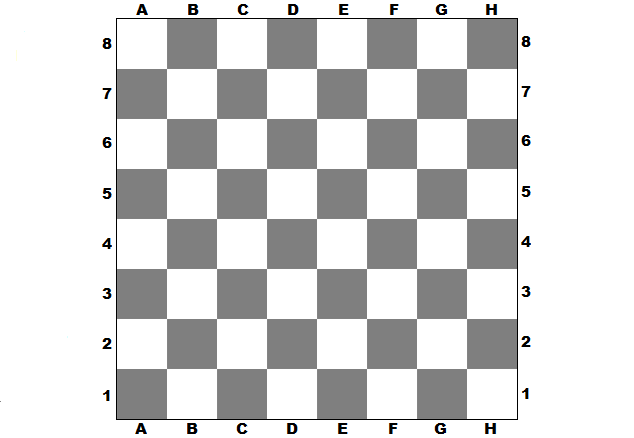
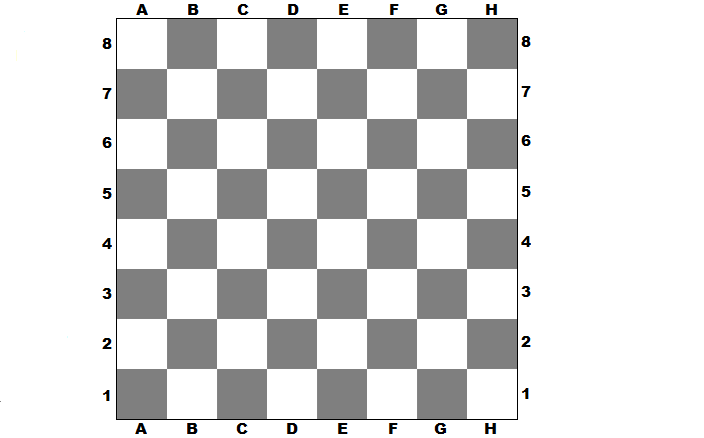
Added last 5 chess moves. Added incomplete info command for tags. MOOOOAR CLEANUP.

diff --git a/src/ArcadesBot.Core/Services/Chess/ChessService.cs b/src/ArcadesBot.Core/Services/Chess/ChessService.cs
@@ -1,14 +1,16 @@
-using System;
+using ChessDotNet;
+using Discord;
+using SixLabors.Fonts;
+using SixLabors.ImageSharp;
+using SixLabors.Primitives;
+using System;
 using System.Collections.Generic;
 using System.IO;
 using System.Linq;
 using System.Net.Http;
+using System.Text;
 using System.Text.RegularExpressions;
 using System.Threading.Tasks;
-using ChessDotNet;
-using Discord;
-using SixLabors.ImageSharp;
-using SixLabors.Primitives;
 using File = ChessDotNet.File;
 using Image = SixLabors.ImageSharp.Image;
 
@@ -49,7 +51,7 @@ namespace ArcadesBot
                 ? new ChessGame(enumerable, true)
                 : new ChessGame();
             var otherPlayer = game.WhoseTurn == Player.White ? Player.Black : Player.White;
-            var linkFromMatchAsync = await GetImageLinkFromMatchAsync(match);
+            var linkFromMatchAsync = await DrawBoard(match);
             return new ChessMatchStatusModel
             {
                 Match = match,
@@ -76,10 +78,8 @@ namespace ArcadesBot
             return challenge;
         }
 
-        public ulong Resign(ulong guildId, ulong channelId, IUser player)
-        {
-            return _chessHelper.Resign(guildId, channelId, player.Id);
-        }
+        public ulong Resign(ulong guildId, ulong channelId, IUser player) 
+            => _chessHelper.Resign(guildId, channelId, player.Id);
 
         public ChessMatchModel AcceptChallenge(CustomCommandContext context, IUser player)
         {
@@ -163,7 +163,9 @@ namespace ArcadesBot
             var chessMove = new ChessMoveModel
             {
                 Move = move,
-                MoveDate = DateTime.Now
+                MovedfenChar = pieceChar,
+                MoveDate = DateTime.Now,
+                Player = whoseTurn
             };
             game.ApplyMove(move, true);
             match.HistoryList.Add(chessMove);
@@ -174,7 +176,7 @@ namespace ArcadesBot
             else if (game.IsCheckmated(otherPlayer))
                 endCause = Cause.Checkmate;
 
-            var imageLinkValues = await GetImageLinkFromMatchAsync(match);
+            var imageLinkValues = await DrawBoard(match);
             var status = new ChessMatchStatusModel
             {
                 Game = game,
@@ -199,7 +201,7 @@ namespace ArcadesBot
             processor.DrawImage(image, new Size(50, 50), new Point(x * 50 + 117, y * 50 + 19), new GraphicsOptions());
         }
 
-        private async Task<ImageLinkModel> GetImageLinkFromMatchAsync(ChessMatchModel match)
+        private async Task<ImageLinkModel> DrawBoard(ChessMatchModel match)
         {
             await Task.Run(async () =>
             {
@@ -243,15 +245,14 @@ namespace ArcadesBot
                                                  rankToRowMap[lastMove.Move.NewPosition.Rank] == y))
                             DrawImage(processor, "yellow_square", x, y);
                         var piece = boardPieces[y][x];
-                        if (piece != null)
-                        {
-                            if (piece.GetFenCharacter().ToString().ToUpper() == "K" && game.IsInCheck(piece.Owner))
-                                DrawImage(processor, "red_square", x, y);
-                            var str = "white";
-                            if (new char[6] {'r', 'n', 'b', 'q', 'k', 'p'}.Contains(piece.GetFenCharacter()))
-                                str = "black";
-                            DrawImage(processor, string.Format("{0}_{1}", str, piece.GetFenCharacter()), x, y);
-                        }
+                        if (piece == null)
+                                continue;
+                        if (piece.GetFenCharacter().ToString().ToUpper() == "K" && game.IsInCheck(piece.Owner))
+                            DrawImage(processor, "red_square", x, y);
+                        var str = "white";
+                        if (new[] {'r', 'n', 'b', 'q', 'k', 'p'}.Contains(piece.GetFenCharacter()))
+                            str = "black";
+                        DrawImage(processor, string.Format("{0}_{1}", str, piece.GetFenCharacter()), x, y);
                     }
 
                     var blackPawnCount = game.PiecesOnBoard.Count(x =>
@@ -420,10 +421,58 @@ namespace ArcadesBot
                     processor.DrawImage(whiteAvatarData, new Size(50, 50), new Point(541, 370), new GraphicsOptions());
                     processor.DrawImage(blackAvatarData, new Size(50, 50), new Point(43, 18), new GraphicsOptions());
 
+                    var table = Image.Load(_assetService.GetImagePath("table.png"));
+                    processor.DrawImage(table, new Size(108, 148), new Point(596, 18), new GraphicsOptions());
+
+                    if (!SystemFonts.TryFind("Arial", out var font))
+                    {
+                        PrettyConsole.Log(LogSeverity.Critical, "Image drawing", "Cannot find font 'Arial' install Arial as a font and try again");
+                        Console.ReadLine();
+                        Environment.Exit(0);
+                    }
+
+                    processor.DrawText("Last 5 moves", font.CreateFont(12, FontStyle.Bold), Rgba32.Black, new PointF(616, 19));
+                    processor.DrawText("White", font.CreateFont(12, FontStyle.Bold), Rgba32.Black, new PointF(606, 42));
+                    processor.DrawText("Black", font.CreateFont(12, FontStyle.Bold), Rgba32.Black, new PointF(660, 42));
+                    var blackMoves = match.HistoryList.OrderByDescending(x => x.MoveDate).Where(x => x.Player == Player.Black).ToList();
+                    var whiteMoves = match.HistoryList.OrderByDescending(x => x.MoveDate).Where(x => x.Player == Player.White).ToList();
+
+                    for (var i = 0; i < blackMoves.Count && i < 5; i++)
+                    {
+                        var safeguard = i;
+                        var player = blackMoves[i].Player.ToString().ToLower();
+                        var file = blackMoves[i].Move.NewPosition.File;
+                        var rank = blackMoves[i].Move.NewPosition.Rank;
+                        var fenChar = blackMoves[i].MovedfenChar;
+                        var image = Image.Load(_assetService.GetImagePath($"{player}_{fenChar}.png"));
+                        if (blackMoves.Count != whiteMoves.Count)
+                            safeguard++;
+                        if (whiteMoves.Count > 5 && safeguard == 5)
+                            continue;
+                        processor.DrawImage(image, new Size(12, 12), new Point(660, 65 + safeguard * 21), new GraphicsOptions());
+                        
+                        var str = ConstructString(file, rank);
+                        processor.DrawText($"{str}", font.CreateFont(12, FontStyle.Bold), Rgba32.Black, new PointF(672, 63 + safeguard * 21));
+                    }
+                    for (var i = 0; i < whiteMoves.Count && i < 5; i++)
+                    {
+                        var player = whiteMoves[i].Player.ToString().ToLower();
+                        var file = whiteMoves[i].Move.NewPosition.File;
+                        var rank = whiteMoves[i].Move.NewPosition.Rank;
+                        var fenChar = whiteMoves[i].MovedfenChar;
+                        var image = Image.Load(_assetService.GetImagePath($"{player}_{fenChar}.png"));
+                        processor.DrawImage(image, new Size(12, 12), new Point(606, 65 + i * 21), new GraphicsOptions());
+
+                        var str = ConstructString(file, rank);
+                        processor.DrawText($"{str}", font.CreateFont(12, FontStyle.Bold), Rgba32.Black, new PointF(618, 63 + i * 21));
+
+                    }
+
                     #endregion
                 });
-                board.Save(
-                    $"{Directory.GetCurrentDirectory()}\\Chessboards\\board{match.Id}-{match.HistoryList.Count}.png");
+                if (!Directory.Exists($"{Directory.GetCurrentDirectory()}\\Chessboards\\"))
+                    Directory.CreateDirectory($"{Directory.GetCurrentDirectory()}\\Chessboards\\");
+                board.Save($"{Directory.GetCurrentDirectory()}\\Chessboards\\board{match.Id}-{match.HistoryList.Count}.png");
             });
 
             var nextPlayer = WhoseTurn(new ChessMatchStatusModel
@@ -453,6 +502,12 @@ namespace ArcadesBot
             onTimeout?.Invoke(challenge);
         }
 
+        private string ConstructString(File file, int rank)
+        {
+            var str = new StringBuilder();
+            str.Append(file.ToString() + rank);
+            return str.ToString();
+        }
         #endregion
     }
 }

diff --git a/src/ArcadesBot/Modules/TagModule.cs b/src/ArcadesBot/Modules/TagModule.cs
@@ -1,10 +1,7 @@
 using Discord;
 using Discord.Commands;
-using System;
 using System.Collections.Generic;
-using System.Diagnostics;
 using System.Linq;
-using System.Text;
 using System.Threading.Tasks;
 
 namespace ArcadesBot
@@ -24,7 +21,7 @@ namespace ArcadesBot
         }
 
         [Command, Name("getTag"), Summary("Gets a tag with the given name.")]
-        public async Task GetTagAsync([Summary("Name of the tag you want to retrieve from the database")]string tagName)
+        public async Task GetTagAsync([Summary("Name of the tag you want to retrieve from the database"), Remainder]string tagName)
         {
             var tag = Tags.FirstOrDefault(x => x.TagName == tagName);
             if(tag == null)
@@ -36,7 +33,7 @@ namespace ArcadesBot
             await ReplyEmbedAsync($"{tag.Content}", document: DocumentType.Server);
         }
 
-        [Command("create", RunMode = RunMode.Async), Alias("new", "add"), Priority(10), Summary("Creates tag with content .")]
+        [Command("create", RunMode = RunMode.Async), Alias("new", "add", "c"), Priority(10), Summary("Creates tag with content .")]
         public async Task CreateAsync([Summary("The name of the tag")]string name, [Remainder, Summary("The content of the tag")]string content)
         {
             if (await TagExists(name))
@@ -51,7 +48,7 @@ namespace ArcadesBot
             await ReplyEmbedAsync($"Tag `{name}` has been created.", document: DocumentType.Server);
         }
 
-        [Command("delete", RunMode = RunMode.Async), Alias("remove"), Priority(10), Summary("Deletes given tag")]
+        [Command("delete", RunMode = RunMode.Async), Alias("remove", "r"), Priority(10), Summary("Deletes given tag")]
         public async Task DeleteAsync([Summary("The name of the tag")]TagModel tag)
         {
             if (!await OwnerShipCheck(tag))
@@ -70,6 +67,30 @@ namespace ArcadesBot
             tag.Aliasses.Add(aliasName);
             Tags.Add(tag);
             await ReplyEmbedAsync($"Tag `{tag.TagName}` has been deleted.", document: DocumentType.Server);
+        }
+
+        [Command("info", RunMode = RunMode.Async), Alias("i"), Priority(10), Summary("Get information about given tag")]
+        public async Task GetInfoAsync([Summary("The name of the tag"), Remainder] TagModel tag)
+        {
+            var tagIndex = Tags.OrderByDescending(x => x.Uses).Select((item, index) => new { item, index });
+            var tagWithIndex = tagIndex.FirstOrDefault(x => x.item.TagName == tag.TagName);
+            var embed = new EmbedBuilder().WithSuccessColor();
+            var str = "";
+            foreach (var test in tag.Aliasses)
+            {
+                str += test + ", ";
+            }
+
+            var user = Context.Client.GetUser(tag.OwnerId)?.Mention;
+            str = str.Substring(0, str.Length - 2);
+            embed.WithDescription($"**{tag.TagName}**");
+            embed.AddField("Owner", user, true);
+            embed.AddField("Uses", tag.Uses, true);
+            embed.AddField("Rank", tagWithIndex.index + 1, true);
+            embed.WithFooter(str);
+            
+
+            await ReplyEmbedAsync(embed: embed);
         }
 
 

diff --git a/src/ArcadesBot.Core/Handlers/DatabaseHandler.cs b/src/ArcadesBot.Core/Handlers/DatabaseHandler.cs
@@ -39,7 +39,7 @@ namespace ArcadesBot
 
         public void Initialize()
         {
-            var DBName = DbConfig.DatabaseName;
+            var dbName = DbConfig.DatabaseName;
             if (Process.GetProcesses().FirstOrDefault(x => x.ProcessName == "Raven.Server") == null)
             {
                 PrettyConsole.Log(LogSeverity.Error, "Database", "Please make sure RavenDB is running.");
@@ -56,8 +56,8 @@ namespace ArcadesBot
                 PrettyConsole.Log(LogSeverity.Error, "Database", "Failed to build document store.");
 
 
-            if (_store.Maintenance.Server.Send(new GetDatabaseNamesOperation(0, 5)).All(x => x != DBName))
-                _store.Maintenance.Server.Send(new CreateDatabaseOperation(new DatabaseRecord(DBName)));
+            if (_store.Maintenance.Server.Send(new GetDatabaseNamesOperation(0, 5)).All(x => x != dbName))
+                _store.Maintenance.Server.Send(new CreateDatabaseOperation(new DatabaseRecord(dbName)));
 
             _store.AggressivelyCacheFor(TimeSpan.FromMinutes(30));
 

diff --git a/src/ArcadesBot.Core/Services/WebhookService.cs b/src/ArcadesBot.Core/Services/WebhookService.cs
@@ -1,12 +1,12 @@
-using System.Collections.Generic;
+using Discord;
+using Discord.Rest;
+using Discord.Webhook;
+using Discord.WebSocket;
+using System.Collections.Generic;
 using System.IO;
 using System.Linq;
 using System.Net.Http;
 using System.Threading.Tasks;
-using Discord;
-using Discord.Rest;
-using Discord.Webhook;
-using Discord.WebSocket;
 
 namespace ArcadesBot
 {

diff --git a/src/ArcadesBot/Modules/Moderation/ModModule.cs b/src/ArcadesBot/Modules/Moderation/ModModule.cs
@@ -1,13 +1,4 @@
-using Discord;
-using Discord.Commands;
-using Discord.WebSocket;
-using System;
-using System.Collections.Generic;
-using System.Linq;
-using System.Text;
-using System.Threading.Tasks;
-
-namespace ArcadesBot
+namespace ArcadesBot
 {
     public class ModModule : Base
     {

diff --git a/src/ArcadesBot/Modules/InfoModule.cs b/src/ArcadesBot/Modules/InfoModule.cs
@@ -2,12 +2,11 @@
 using Discord.Commands;
 using System;
 using System.Diagnostics;
-using System.Text;
 using System.Threading.Tasks;
 
 namespace ArcadesBot.Modules
 {
-    
+
     [Group("info"), Name("Info")]
     [Summary("")]
     public class InfoModule : Base

diff --git a/src/ArcadesBot.Core/Models/Chess/MoveModel.cs b/src/ArcadesBot.Core/Models/Chess/MoveModel.cs
@@ -6,6 +6,8 @@ namespace ArcadesBot
     public class ChessMoveModel
     {
         public Move Move { get; set; }
+        public Player Player { get; set; }
         public DateTime MoveDate { get; set; }
+        public char MovedfenChar { get; set; }
     }
 }

diff --git a/src/ArcadesBot.Core/Preconditions/RequirePermission.cs b/src/ArcadesBot.Core/Preconditions/RequirePermission.cs
@@ -1,9 +1,9 @@
-using System;
-using System.Linq;
-using System.Threading.Tasks;
-using Discord;
+using Discord;
 using Discord.Commands;
 using Discord.WebSocket;
+using System;
+using System.Linq;
+using System.Threading.Tasks;
 
 namespace ArcadesBot
 {

diff --git a/src/ArcadesBot.Core/Common/CustomCommandContext.cs b/src/ArcadesBot.Core/Common/CustomCommandContext.cs
@@ -1,9 +1,9 @@
-using System;
-using System.Net.Http;
-using Discord;
+using Discord;
 using Discord.Commands;
 using Discord.WebSocket;
 using Microsoft.Extensions.DependencyInjection;
+using System;
+using System.Net.Http;
 
 namespace ArcadesBot
 {

diff --git a/src/ArcadesBot.Core/Utility/StringHelper.cs b/src/ArcadesBot.Core/Utility/StringHelper.cs
@@ -1,10 +1,10 @@
-using System;
+using Discord;
+using Discord.WebSocket;
+using System;
 using System.IO;
 using System.Net.Http;
 using System.Text;
 using System.Threading.Tasks;
-using Discord;
-using Discord.WebSocket;
 
 namespace ArcadesBot
 {

diff --git a/src/ArcadesBot/Modules/HelpModule.cs b/src/ArcadesBot/Modules/HelpModule.cs
@@ -2,9 +2,7 @@
 using Discord.Commands;
 using Microsoft.Extensions.DependencyInjection;
 using System;
-using System.Collections.Generic;
 using System.Linq;
-using System.Text;
 using System.Threading.Tasks;
 
 namespace ArcadesBot.Modules

diff --git a/src/ArcadesBot/Modules/Games/ChessModule.cs b/src/ArcadesBot/Modules/Games/ChessModule.cs
@@ -1,11 +1,7 @@
 using Discord;
 using Discord.Commands;
-using Discord.WebSocket;
-using System.Linq;
 using System.IO;
 using System.Threading.Tasks;
-using System;
-using System.Collections.Generic;
 
 namespace ArcadesBot
 {
